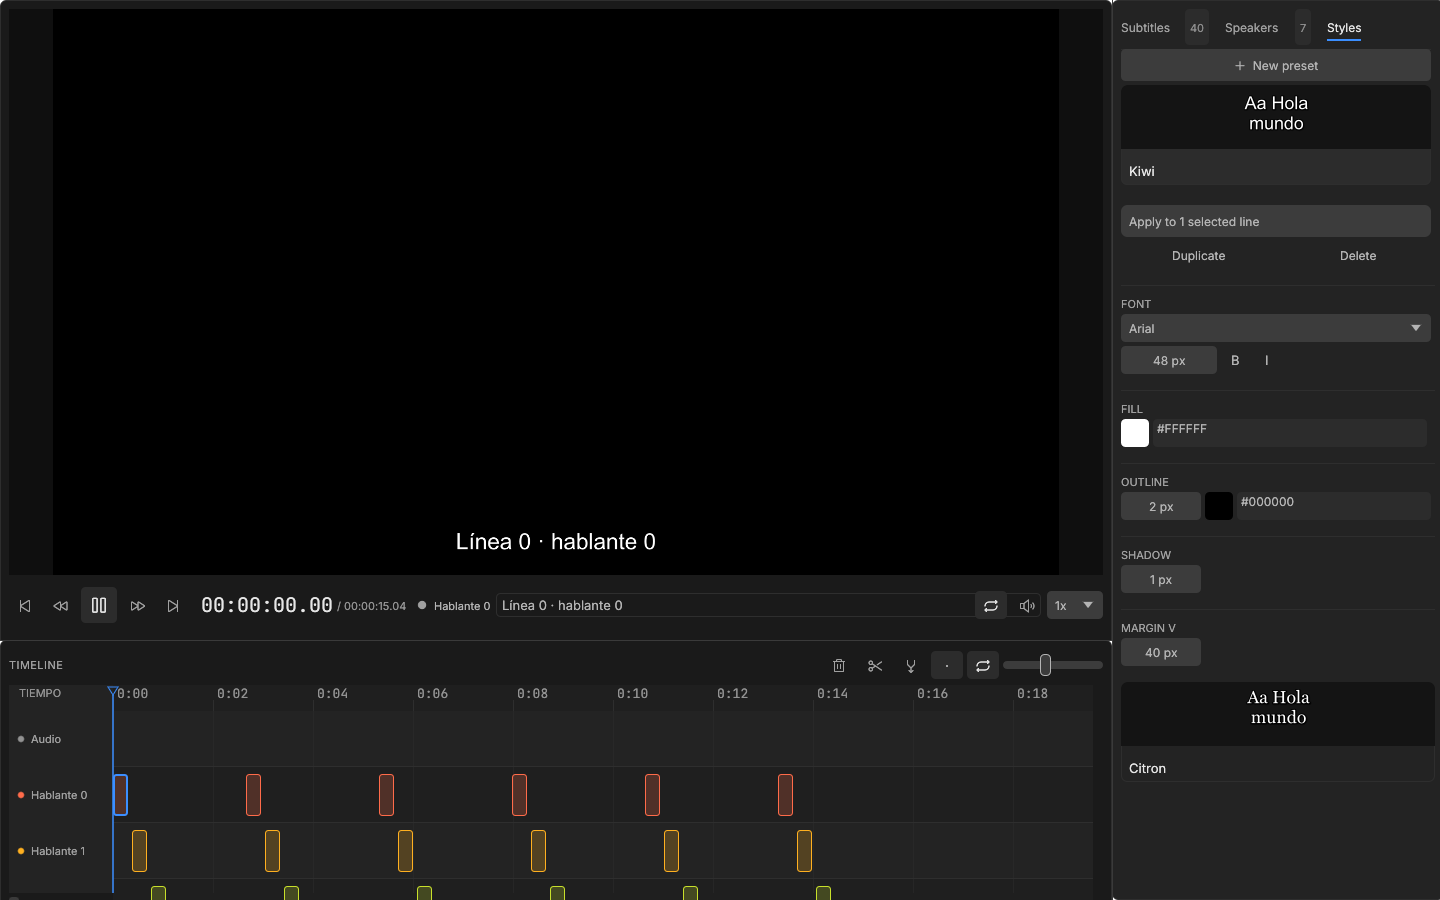
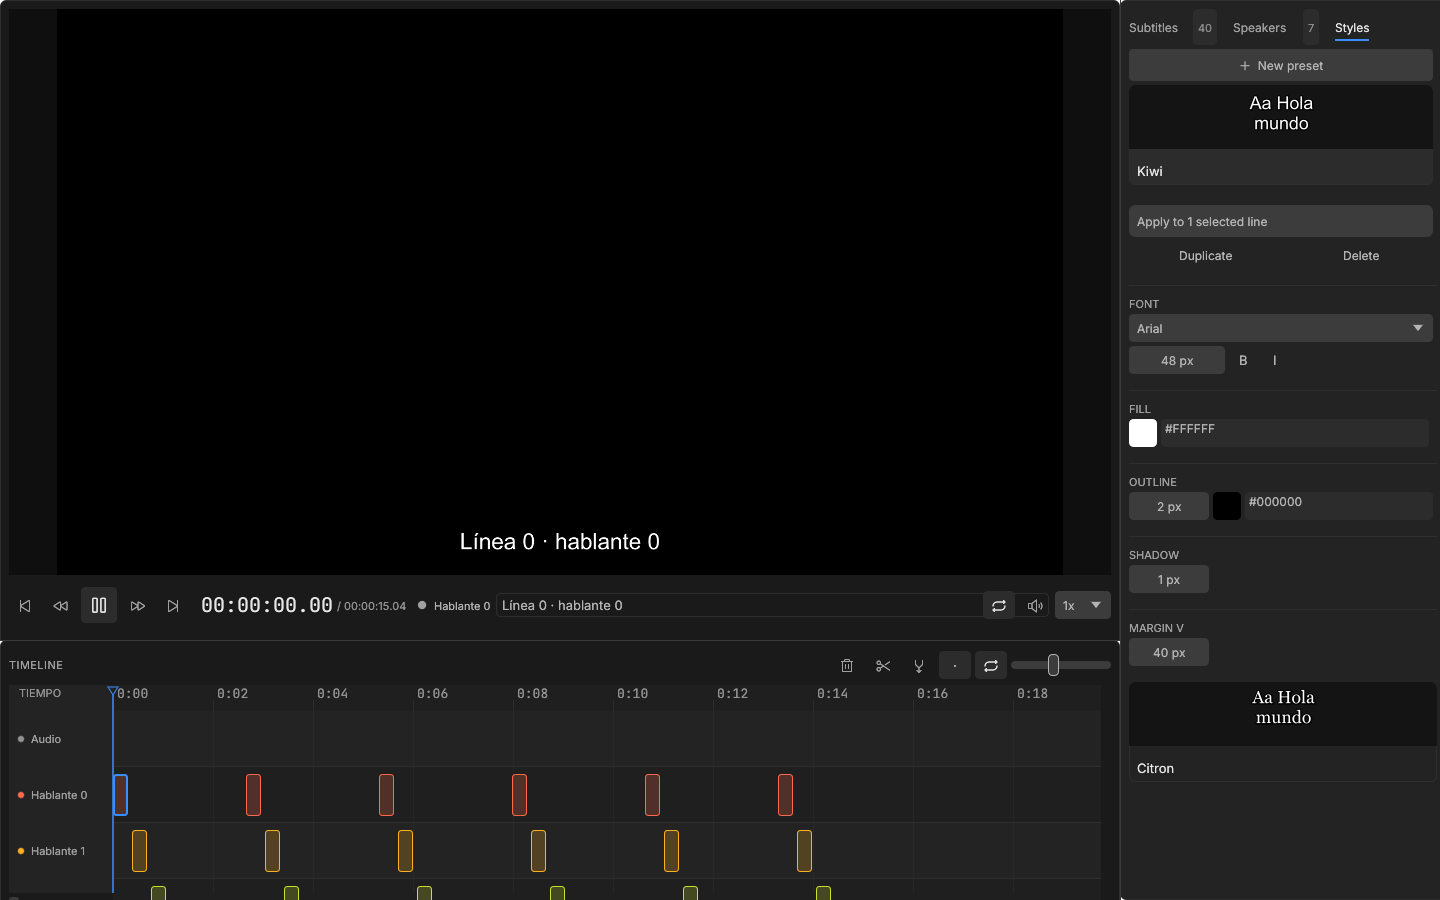
fix(ui): divisor lateral, picker completo y foco sin seek

diff --git a/crates/app/tests/layout.rs b/crates/app/tests/layout.rs
@@ -304,6 +304,144 @@ fn borrar_caption_no_toca_la_seleccion() {
 }
 
 #[test]
+fn el_picker_de_color_aparece_con_un_solo_clic() {
+    use egui_kittest::kittest::Queryable;
+    use rod_app::editor_app::EditorApp;
+    use rod_app::textos::EN;
+
+    let video = concat!(
+        env!("CARGO_MANIFEST_DIR"),
+        "/../../testdata/clip-15s-2audio.mp4"
+    );
+    let mut editor = EditorApp::desde_video(video).expect("abre el clip de prueba");
+    let mut preset = rod_core::preset_por_defecto();
+    preset.id = "p-color".into();
+    preset.nombre = "Color".into();
+    editor.presets_mut().push(preset);
+    editor.preset_seleccionado = Some("p-color".into());
+    let mut h = egui_kittest::Harness::builder()
+        .with_size(egui::vec2(320.0, 700.0))
+        .build_ui_state(
+            |ui, estado: &mut EditorApp| {
+                let mensajes = rod_app::ui::paneles::estilos::mostrar(ui, estado, &EN);
+                for mensaje in mensajes {
+                    let _ = rod_app::editor_app::update(estado, mensaje);
+                }
+            },
+            editor,
+        );
+    rod_app::ui::tema::aplicar(&h.ctx);
+    h.run();
+    let swatch = h
+        .get_all_by_role_and_label(egui::accesskit::Role::Button, "")
+        .next()
+        .expect("swatch de color");
+    let antes = h
+        .query_all_by_role(egui::accesskit::Role::SpinButton)
+        .count();
+    swatch.click();
+    h.step();
+    h.run();
+    assert!(
+        h.query_all_by_role(egui::accesskit::Role::SpinButton)
+            .count()
+            > antes + 2,
+        "el picker completo no apareció tras un clic"
+    );
+}
+
+#[test]
+fn ensanchar_y_encoger_el_panel_lateral_no_vuelve_al_inicial() {
+    use rod_app::editor_app::EditorApp;
+    use rod_app::ui::editor::MedidasEditor;
+    use rod_app::video::Gpu;
+    use std::sync::{Arc, Mutex};
+
+    let video = concat!(
+        env!("CARGO_MANIFEST_DIR"),
+        "/../../testdata/clip-15s-2audio.mp4"
+    );
+    let editor = EditorApp::desde_video(video).expect("abre el clip de prueba");
+    let estado = (editor, MedidasEditor::default(), Arc::new(Mutex::new(None)));
+    let mut h = egui_kittest::Harness::builder()
+        .with_size(egui::vec2(1200.0, 700.0))
+        .build_state(
+            |ctx, (e, m, gpu): &mut (EditorApp, MedidasEditor, Arc<Mutex<Option<Gpu>>>)| {
+                let _ = rod_app::ui::editor::show(
+                    ctx,
+                    e,
+                    wgpu::TextureFormat::Rgba8Unorm,
+                    gpu.clone(),
+                    &rod_app::textos::EN,
+                    &rod_app::comandos::MapaAtajos::por_defecto(),
+                    m,
+                );
+            },
+            estado,
+        );
+    h.run();
+    let inicial = h.state().1.ancho_panel;
+    // El borde del SidePanel está en 1200 - ancho, con unos px de margen.
+    let borde = 1200.0 - inicial;
+    h.input_mut()
+        .events
+        .push(egui::Event::PointerMoved(egui::pos2(borde, 350.0)));
+    h.step();
+    h.input_mut().events.push(egui::Event::PointerButton {
+        pos: egui::pos2(borde, 350.0),
+        button: egui::PointerButton::Primary,
+        pressed: true,
+        modifiers: egui::Modifiers::NONE,
+    });
+    h.step();
+    h.input_mut()
+        .events
+        .push(egui::Event::PointerMoved(egui::pos2(borde - 20.0, 350.0)));
+    h.step();
+    h.input_mut().events.push(egui::Event::PointerButton {
+        pos: egui::pos2(borde - 20.0, 350.0),
+        button: egui::PointerButton::Primary,
+        pressed: false,
+        modifiers: egui::Modifiers::NONE,
+    });
+    h.step();
+    assert!(
+        h.state().1.ancho_panel > inicial + 10.0,
+        "el panel volvió a {:.1} desde {inicial:.1}",
+        h.state().1.ancho_panel
+    );
+}
+
+#[test]
+fn enfocar_el_texto_no_mueve_el_playhead() {
+    use rod_app::editor_app::{EditorApp, MensajeEditor, update};
+
+    let video = concat!(
+        env!("CARGO_MANIFEST_DIR"),
+        "/../../testdata/clip-15s-2audio.mp4"
+    );
+    let mut editor = EditorApp::desde_video(video).expect("abre el clip de prueba");
+    editor.editor_mut().agregar(rod_core::Caption {
+        id: "cap-texto".into(),
+        inicio: 1.0,
+        fin: 2.0,
+        texto: "hola".into(),
+        hablante_id: None,
+    });
+    assert!((editor.tiempo_ui() - 0.0).abs() < 0.5);
+    let _ = update(
+        &mut editor,
+        MensajeEditor::SeleccionarSinSeek("cap-texto".into()),
+    );
+    assert_eq!(editor.seleccion(), &["cap-texto".to_owned()]);
+    assert!(
+        (editor.tiempo_ui() - 0.0).abs() < 0.5,
+        "el playhead se movió a {}",
+        editor.tiempo_ui()
+    );
+}
+
+#[test]
 fn tope_respeta_la_ventana_y_el_suelo() {
     assert_eq!(rod_app::ui::editor::alto_maximo_timeline(900.0), 630.0);
     assert_eq!(rod_app::ui::editor::alto_maximo_timeline(200.0), 160.0);

diff --git a/crates/app/src/ui/editor.rs b/crates/app/src/ui/editor.rs
@@ -81,13 +81,37 @@ pub fn show(
     let mut mensajes = Vec::new();
 
     if medidas.panel_visible {
-        let lado = egui::SidePanel::right("inspector")
-            .resizable(true)
-            .default_width(medidas.ancho_panel)
-            .min_width(tema::ANCHO_PANEL_MIN)
-            .max_width(tema::ANCHO_PANEL_MAX)
+        let ancho = medidas
+            .ancho_panel
+            .clamp(tema::ANCHO_PANEL_MIN, tema::ANCHO_PANEL_MAX);
+        medidas.ancho_panel = ancho;
+        let mut arrastre_panel: Option<f32> = None;
+        egui::SidePanel::right("inspector")
+            .resizable(false)
+            .exact_width(ancho)
             .frame(tema::panel(tema::PANEL))
             .show(ctx, |ui| {
+                // Como en el timeline: el `PanelState` de egui acumula el rect
+                // entre frames, así que el ancho sale de `medidas` y el
+                // arrastre escribe en ella desde el borde izquierdo del panel.
+                let borde = ui.max_rect().min.x;
+                let franja = egui::Rect::from_x_y_ranges(
+                    (borde - tema::ESP_4)..=(borde + tema::ESP_4),
+                    ui.max_rect().y_range(),
+                );
+                let divisor = ui.interact(
+                    franja,
+                    egui::Id::new("divisor-panel-lateral"),
+                    egui::Sense::drag(),
+                );
+                if divisor.dragged()
+                    && let Some(pointer) = divisor.interact_pointer_pos()
+                {
+                    arrastre_panel = Some(pointer.x);
+                }
+                if divisor.hovered() {
+                    ui.ctx().set_cursor_icon(egui::CursorIcon::ResizeHorizontal);
+                }
                 let lineas = state.editor.proyecto().captions.len();
                 let hablantes = state.editor.proyecto().hablantes.len();
                 if let Some(panel) = kit::tab_bar(
@@ -107,12 +131,10 @@ pub fn show(
                     Panel::Estilos => mensajes.extend(estilos::mostrar(ui, state, textos)),
                 }
             });
-        // El rect devuelto incluye el marco: nunca debe exceder el máximo.
-        medidas.ancho_panel = lado
-            .response
-            .rect
-            .width()
-            .clamp(tema::ANCHO_PANEL_MIN, tema::ANCHO_PANEL_MAX);
+        if let Some(x) = arrastre_panel {
+            medidas.ancho_panel =
+                (ctx.content_rect().max.x - x).clamp(tema::ANCHO_PANEL_MIN, tema::ANCHO_PANEL_MAX);
+        }
     }
 
     let tope = alto_maximo_timeline(ctx.content_rect().height());

diff --git a/crates/app/src/editor_app.rs b/crates/app/src/editor_app.rs
@@ -134,6 +134,9 @@ pub enum MensajeEditor {
     Panel(Panel),
     /// Preset abierto en el panel de estilos.
     SeleccionarPreset(String),
+    /// Selecciona sin llevar el playhead al inicio: al enfocar el campo de
+    /// texto queremos resaltar la línea, no saltar al frame anterior.
+    SeleccionarSinSeek(String),
     /// Duplica el preset seleccionado (parte del actual, como el oráculo).
     NuevoPreset,
     BorrarPreset(String),
@@ -1741,6 +1744,11 @@ pub fn update(state: &mut EditorApp, message: MensajeEditor) -> Tarea {
                         .collect(),
                 );
             }
+            sincronizar_borrador(state);
+        }
+        MensajeEditor::SeleccionarSinSeek(id) => {
+            state.texto.manual = true;
+            state.editor.seleccionar_uno(&id);
             sincronizar_borrador(state);
         }
         MensajeEditor::Seleccionar(id) => {

diff --git a/crates/app/src/ui/paneles/estilos.rs b/crates/app/src/ui/paneles/estilos.rs
@@ -507,7 +507,14 @@ fn campo_color(
             );
             egui::Popup::from_toggle_button_response(&boton).show(|ui| {
                 let mut editable = color;
-                ui.color_edit_button_srgba(&mut editable);
+                // El picker completo (2D + canales) aparece ya en el popup,
+                // sin un segundo botón que haya que pulsar. Los colores del
+                // preset son opacos: no se ofrece canal alfa.
+                egui::widgets::color_picker::color_picker_color32(
+                    ui,
+                    &mut editable,
+                    egui::widgets::color_picker::Alpha::Opaque,
+                );
                 if editable != color {
                     borrador = format!(
                         "#{:02X}{:02X}{:02X}",

diff --git a/crates/app/src/ui/texto.rs b/crates/app/src/ui/texto.rs
@@ -56,7 +56,7 @@ pub fn color_borde_campo(hay_linea: bool, foco: bool) -> egui::Color32 {
 
 /// Al enfocar el campo, la línea que se edita pasa a estar seleccionada arriba.
 pub fn mensaje_al_enfocar(state: &EditorApp) -> Option<MensajeEditor> {
-    EstadoTexto::objetivo(state).map(MensajeEditor::Seleccionar)
+    EstadoTexto::objetivo(state).map(MensajeEditor::SeleccionarSinSeek)
 }
 
 fn pintar_borde_rayado(painter: &egui::Painter, rect: egui::Rect, color: egui::Color32) {

diff --git a/BITACORA.md b/BITACORA.md
@@ -1,5 +1,18 @@
 # Bitácora
 
+## 2026-11-26 — Divisor lateral, picker y playhead
+
+- El ancho del panel lateral volvía a su valor inicial por la misma causa que
+  el timeline: `lado.response.rect.width()` crecía con el `PanelState` de egui.
+  Ahora usa `exact_width` con el valor de preferencias y un `interact` propio.
+- Color: el swatch abría un popup que contenía otro botón que había que pulsar
+  para ver el picker. Se usa `color_picker_color32` con `Alpha::Opaque`, así
+  que el selector completo aparece al primer clic.
+- Enfocar el campo de texto emitía `Seleccionar`, cuyo handler hace seek al
+  inicio del caption; mpv aterrizaba un frame antes. El foco ahora emite
+  `SeleccionarSinSeek`: resalta la línea sin mover el playhead.
+
+
 ## 2026-11-26 — Tres arreglos de paneles
 
 - Buscar fuente en Styles cerraba el desplegable: el `ComboBox` de egui 0.33
